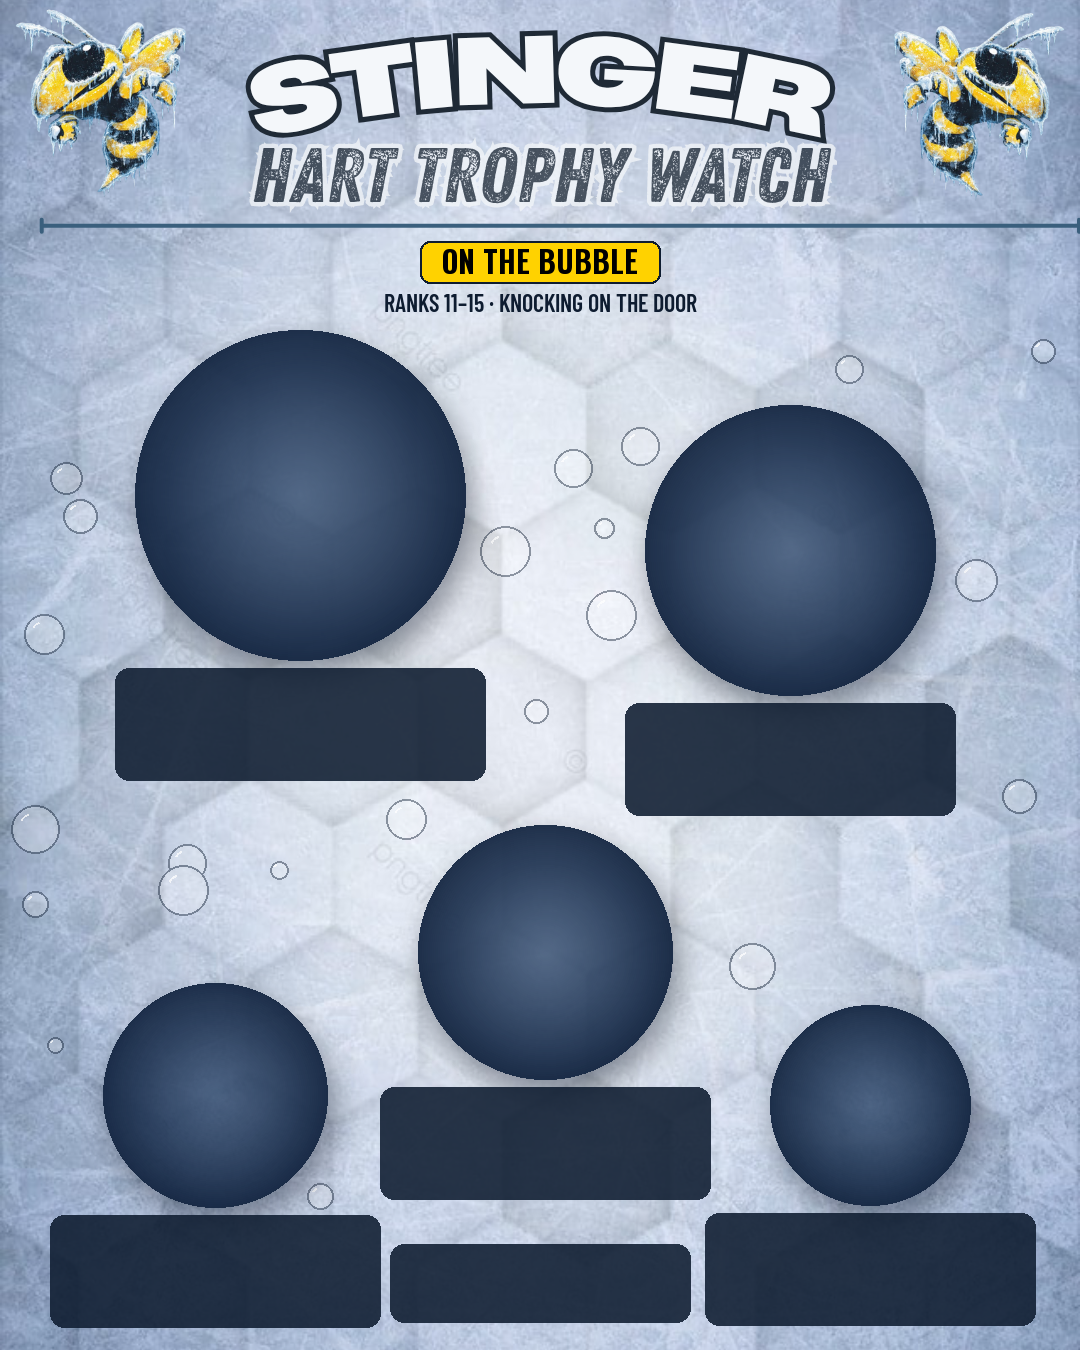
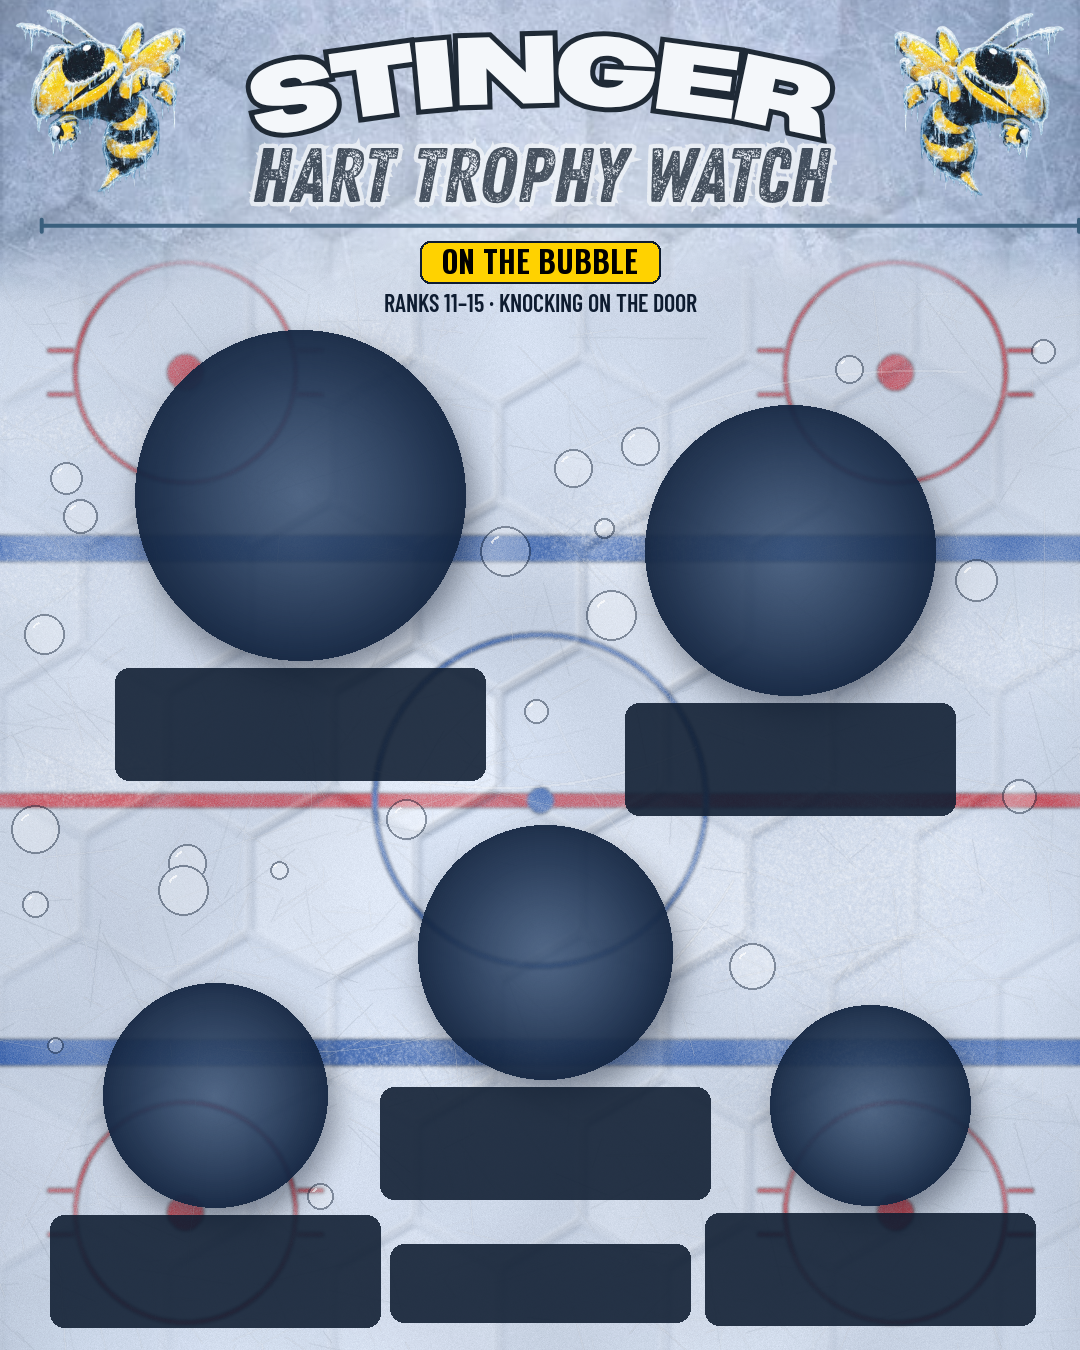
Original generated ice background with honeycomb and rink markings
publish/make_ice_bg.py builds Hart_Ice_bg.png: ice texture, skate scratches,
an embossed honeycomb, and red/blue lines plus face-off circles under the
surface. Only the header band is reused from Hart_Trophy_bg.png, whose body
carries stock-site watermarks. The bubble background is rebuilt on it.
CLAUDE.md: the new site reads board_hart_latest.csv; pages/ is the legacy
Squarespace feed.

diff --git a/publish/make_ice_bg.py b/publish/make_ice_bg.py
@@ -1,0 +1,193 @@
+"""Generate an original 1080×1350 ice background: scratched ice, an embossed honeycomb,
+and rink markings under the surface (red center line, blue lines, center face-off circle).
+
+The header band (STINGER wordmark, bee mascots, HART TROPHY WATCH, rule line) is taken
+from config.HEADER_SOURCE and feathered into the new ice below the rule. Deterministic
+for a given seed. After regenerating, rerun publish.make_bubble_bg (it builds on this image).
+
+Run:
+    python -m publish.make_ice_bg                       # → config.BOARD_BACKGROUND (Hart_Ice_bg.png)
+    python -m publish.make_ice_bg <out.png> [--seed 11] # elsewhere, e.g. to try a seed
+"""
+import argparse
+import math
+from pathlib import Path
+
+import numpy as np
+from PIL import Image, ImageDraw, ImageFilter
+
+W, H = 1080, 1350
+HEADER_CUT = 234          # header band kept from the source image (rule line sits at ~228)
+FEATHER = 70              # px blended below the cut
+
+# Matched to Hart_Trophy_bg.png: body ≈ (198, 209, 226), edges ≈ (156, 174, 200)
+ICE_BASE = np.array([204, 214, 230], dtype=float)
+RED = (196, 32, 44)
+BLUE = (26, 74, 162)
+
+# Rink layout (portrait: lines run across the width)
+CENTER_Y = 800            # red center line + center face-off circle
+BLUE_LINES_Y = (548, 1052)
+CIRCLE_R = 168
+
+
+def smooth_noise(rng, scale: int, amp: float) -> np.ndarray:
+    """Low-frequency cloudiness: coarse random grid upscaled and blurred."""
+    small = Image.fromarray((rng.random((H // scale + 2, W // scale + 2)) * 255).astype(np.uint8))
+    big = small.resize((W + 2 * scale, H + 2 * scale), Image.BICUBIC).filter(ImageFilter.GaussianBlur(scale / 2))
+    a = np.asarray(big, dtype=float)[scale:scale + H, scale:scale + W] / 255.0 - 0.5
+    return a * amp
+
+
+def ice_base(rng) -> Image.Image:
+    yy, xx = np.mgrid[0:H, 0:W]
+    # cool vignette: brighter centre, bluer edges
+    d = np.hypot((xx - W / 2) / (W * 0.62), (yy - H * 0.55) / (H * 0.72))
+    light = 12 * (1 - np.clip(d, 0, 1.3)) - 34 * np.clip(d - 0.75, 0, 1) ** 1.4
+    cloud = smooth_noise(rng, 120, 26) + smooth_noise(rng, 40, 12)
+    grain = rng.normal(0, 3.0, (H, W))
+    img = ICE_BASE[None, None, :] + (light + cloud + grain)[..., None]
+    img[..., 0] -= 8 * np.clip(d - 0.6, 0, 1)   # edges lean blue
+    img[..., 1] -= 4 * np.clip(d - 0.6, 0, 1)
+    return Image.fromarray(np.clip(img, 0, 255).astype(np.uint8), "RGB").convert("RGBA")
+
+
+def rink_markings() -> Image.Image:
+    """Paint under the ice: drawn crisp, then softened and faded by the caller."""
+    m = Image.new("RGBA", (W, H), (0, 0, 0, 0))
+    d = ImageDraw.Draw(m)
+    # blue lines (wider) and red center line
+    for y in BLUE_LINES_Y:
+        d.rectangle((0, y - 13, W, y + 13), fill=(*BLUE, 255))
+    d.rectangle((0, CENTER_Y - 7, W, CENTER_Y + 7), fill=(*RED, 255))
+    # center face-off circle, blue in the NHL; dot and hash marks
+    cx, cy, r = W // 2, CENTER_Y, CIRCLE_R
+    d.ellipse((cx - r, cy - r, cx + r, cy + r), outline=(*BLUE, 255), width=6)
+    d.ellipse((cx - 13, cy - 13, cx + 13, cy + 13), fill=(*BLUE, 255))
+    return m
+
+
+def faceoff_spot(d: ImageDraw.ImageDraw, cx: int, cy: int, r: int):
+    """End-zone style face-off circle: red ring, red dot, hash marks on both sides."""
+    d.ellipse((cx - r, cy - r, cx + r, cy + r), outline=(*RED, 255), width=5)
+    d.ellipse((cx - 18, cy - 18, cx + 18, cy + 18), fill=(*RED, 255))
+    for side in (-1, 1):
+        x = cx + side * r
+        for dy in (-22, 22):
+            d.line((x, cy + dy, x + side * 26, cy + dy), fill=(*RED, 255), width=5)
+
+
+def scratches(rng) -> Image.Image:
+    """Skate marks: many short hairlines plus a few long carved arcs; white and grey."""
+    s = Image.new("RGBA", (W, H), (0, 0, 0, 0))
+    d = ImageDraw.Draw(s)
+    for _ in range(1400):
+        x, y = rng.uniform(-50, W + 50), rng.uniform(0, H)
+        ang = rng.normal(rng.choice([0.35, -0.5, 1.2]), 0.35)
+        length = rng.gamma(2.0, 28)
+        x2, y2 = x + math.cos(ang) * length, y + math.sin(ang) * length
+        shade = (255, 255, 255, int(rng.uniform(25, 80))) if rng.random() < 0.7 else (150, 165, 185, int(rng.uniform(20, 55)))
+        d.line((x, y, x2, y2), fill=shade, width=1)
+    for _ in range(26):                      # long carved arcs (stops and turns)
+        cx, cy = rng.uniform(0, W), rng.uniform(HEADER_CUT, H + 200)
+        rr = rng.uniform(250, 900)
+        a0 = rng.uniform(0, 360); span = rng.uniform(12, 40)
+        d.arc((cx - rr, cy - rr, cx + rr, cy + rr), a0, a0 + span,
+              fill=(255, 255, 255, int(rng.uniform(40, 90))), width=int(rng.integers(1, 3)))
+    return s.filter(ImageFilter.GaussianBlur(0.4))
+
+
+def snow(rng) -> Image.Image:
+    """Snowy scuffs where skates stopped: blurred speckle patches."""
+    layer = np.zeros((H, W), dtype=float)
+    for _ in range(14):
+        cx, cy = rng.uniform(0, W), rng.uniform(HEADER_CUT, H)
+        rx, ry = rng.uniform(60, 180), rng.uniform(20, 60)
+        yy, xx = np.ogrid[0:H, 0:W]
+        blob = np.exp(-(((xx - cx) / rx) ** 2 + ((yy - cy) / ry) ** 2))
+        layer += blob * rng.uniform(0.4, 1.0)
+    speck = rng.random((H, W)) ** 6
+    alpha = np.clip(layer * speck * 420, 0, 140).astype(np.uint8)
+    img = Image.new("RGBA", (W, H), (255, 255, 255, 0))
+    img.putalpha(Image.fromarray(alpha).filter(ImageFilter.GaussianBlur(0.8)))
+    return img
+
+
+def honeycomb(rng, radius: int = 96) -> Image.Image:
+    """Embossed hexagons (pointy-top), lit from the top-left; stronger toward the centre."""
+    layer = Image.new("RGBA", (W, H), (0, 0, 0, 0))
+    d = ImageDraw.Draw(layer)
+    hw = math.sqrt(3) * radius          # cell width
+    vstep = 1.5 * radius
+    light = np.array([-0.6, -0.8])       # from upper left
+    rows = int(H / vstep) + 3
+    cols = int(W / hw) + 3
+    for row in range(-1, rows):
+        for col in range(-1, cols):
+            cx = col * hw + (hw / 2 if row % 2 else 0)
+            cy = row * vstep + 20
+            pts = [(cx + (radius - 5) * math.cos(math.radians(60 * k - 30)),
+                    cy + (radius - 5) * math.sin(math.radians(60 * k - 30))) for k in range(6)]
+            # cell face: slight random tone so the comb reads as tiles
+            tone = int(rng.uniform(-14, 14))
+            d.polygon(pts, fill=(255, 255, 255, 22 + tone) if tone > 0 else (120, 140, 170, 16 - tone))
+            # bevel: edges facing the light are bright, the others dark
+            for k in range(6):
+                (x1, y1), (x2, y2) = pts[k], pts[(k + 1) % 6]
+                nx, ny = (y2 - y1), -(x2 - x1)                # outward normal
+                n = math.hypot(nx, ny); nx, ny = nx / n, ny / n
+                f = -(nx * light[0] + ny * light[1])
+                col_ = (255, 255, 255, int(110 * f)) if f > 0 else (60, 80, 110, int(-90 * f))
+                d.line((x1, y1, x2, y2), fill=col_, width=5)
+    layer = layer.filter(ImageFilter.GaussianBlur(2.2))
+    # fade toward the edges and the bottom, like a spotlight on centre ice
+    yy, xx = np.mgrid[0:H, 0:W]
+    dist = np.hypot((xx - W / 2) / (W * 0.62), (yy - H * 0.55) / (H * 0.62))
+    fade = np.clip(1.15 - dist, 0.25, 1.0)
+    a = np.asarray(layer.getchannel("A"), dtype=float) * fade
+    layer.putalpha(Image.fromarray(a.astype(np.uint8)))
+    return layer
+
+
+def build(header_from: Path | None, seed: int) -> Image.Image:
+    rng = np.random.default_rng(seed)
+    img = ice_base(rng)
+
+    # markings under the ice: soft, faded, scuffed through by the scratches above them
+    marks = rink_markings()
+    d = ImageDraw.Draw(marks)
+    for cy in (372, H - 138):                 # end-zone circles beyond each blue line
+        faceoff_spot(d, 185, cy, 112)
+        faceoff_spot(d, W - 185, cy, 112)
+    marks = marks.filter(ImageFilter.GaussianBlur(1.6))
+    wear = np.clip(0.62 + smooth_noise(rng, 30, 0.5) + rng.normal(0, 0.05, (H, W)), 0.3, 0.8)
+    marks.putalpha(Image.fromarray((np.asarray(marks.getchannel("A"), dtype=float) * wear).astype(np.uint8)))
+    img = Image.alpha_composite(img, marks)
+
+    img = Image.alpha_composite(img, honeycomb(rng))
+    img = Image.alpha_composite(img, snow(rng))
+    img = Image.alpha_composite(img, scratches(rng))
+
+    if header_from and header_from.exists():
+        src = Image.open(header_from).convert("RGBA").resize((W, H))
+        mask = np.zeros((H, W), dtype=float)
+        mask[:HEADER_CUT] = 1.0
+        ramp = np.linspace(1, 0, FEATHER)
+        mask[HEADER_CUT:HEADER_CUT + FEATHER] = ramp[:, None]
+        img = Image.composite(src, img, Image.fromarray((mask * 255).astype(np.uint8)))
+    return img.convert("RGB")
+
+
+def main() -> None:
+    from config import BOARD_BACKGROUND, HEADER_SOURCE
+    p = argparse.ArgumentParser()
+    p.add_argument("out", type=Path, nargs="?", default=BOARD_BACKGROUND)
+    p.add_argument("--header-from", type=Path, default=HEADER_SOURCE)
+    p.add_argument("--seed", type=int, default=11)
+    a = p.parse_args()
+    build(a.header_from, a.seed).save(a.out)
+    print("ok ->", a.out)
+
+
+if __name__ == "__main__":
+    main()

diff --git a/publish/render_graphics.py b/publish/render_graphics.py
@@ -1,10 +1,10 @@
 """
 Render the weekly Hart Trophy board graphic (1080×1350) by compositing headshots,
-team logos, chips and stat blocks onto Hart_Trophy_bg.png, plus the "On the Bubble"
-slide for ranks 11–15.
+team logos, chips and stat blocks onto Hart_Ice_bg.png (publish/make_ice_bg.py), plus
+the "On the Bubble" slide for ranks 11–15.
 
 Port of nfl-awards-predictor/src/publish/render_graphics.py: same fonts, card anatomy
-and percentile-based select_top_stats. Hart_Trophy_bg.png is light ice, not dark turf,
+and percentile-based select_top_stats. The background is light ice, not dark turf,
 so everything that isn't on a card or row plate gets its own dark plate.
 
 Assets come from stinger-assets (STINGER_ASSETS_DIR):
@@ -430,7 +430,7 @@ def draw_footer(canvas: Image.Image, row_top: int, row_left: int, through: date)
 
 
 def placeholder_background() -> Image.Image:
-    """Plain dark board with a header band — used if Hart_Trophy_bg.png is missing."""
+    """Plain dark board with a header band — used if the board background is missing."""
     bg = Image.new("RGBA", (IMG_W, IMG_H), (12, 14, 20, 255))
     d = ImageDraw.Draw(bg)
     for y in range(IMG_H):                      # subtle vertical gradient

diff --git a/config.py b/config.py
@@ -56,9 +56,11 @@ CANDIDATES_CSV   = PREDICTIONS / "nhl_candidates.csv"   # pulled by stinger-asse
 PAGES_DIR        = ROOT_DIR / "pages"                     # legacy Google Sheet feed
 FONTS_DIR        = ROOT_DIR / "assets" / "fonts"
 
-# 1080×1350 backgrounds. The bubble background, overlay and slot geometry come
-# from publish/make_bubble_bg.py.
-BOARD_BACKGROUND  = ROOT_DIR / "Hart_Trophy_bg.png"
+# 1080×1350 backgrounds. BOARD_BACKGROUND is generated by publish/make_ice_bg.py
+# (original ice + honeycomb + rink markings; header band from HEADER_SOURCE). The bubble
+# background, overlay and slot geometry come from publish/make_bubble_bg.py.
+HEADER_SOURCE     = ROOT_DIR / "Hart_Trophy_bg.png"   # STINGER wordmark, bees, title, rule line
+BOARD_BACKGROUND  = ROOT_DIR / "Hart_Ice_bg.png"
 BUBBLE_BACKGROUND = ROOT_DIR / "Hart_Bubble_bg.png"
 BUBBLE_OVERLAY    = ROOT_DIR / "Hart_Bubble_overlay.png"
 BUBBLE_SLOTS      = ROOT_DIR / "assets" / "bubble_slots.json"

diff --git a/publish/make_bubble_bg.py b/publish/make_bubble_bg.py
@@ -1,4 +1,5 @@
-"""Build the Hart 'On the Bubble' background for ranks 11-15 from Hart_Trophy_bg.png.
+"""Build the Hart 'On the Bubble' background for ranks 11-15 from the board background
+(config.BOARD_BACKGROUND, Hart_Ice_bg.png).
 
 Port of nfl-awards-predictor/src/publish/make_bubble_bg.py, restyled for the light
 ice board: navy wells and plates instead of dark turf, gold rings, ice-blue micro-bubbles.

diff --git a/CLAUDE.md b/CLAUDE.md
@@ -29,6 +29,7 @@ python Models/nhl_predict_current.py --outdir <scratch> --no-publish   # board C
 python -m publish.render_graphics
 python -m publish.generate_chips
 python -m publish.generate_captions
+python -m publish.make_ice_bg                        # regenerate Hart_Ice_bg.png (then make_bubble_bg)
 python -m publish.make_bubble_bg [--preview <png>]   # regenerate bubble background/overlay/slots
 ```
 
@@ -80,7 +81,7 @@ nhl_predict_current.py  →  Data/Processed/nhl_hart_predictions_v2_{season}.csv
 - **Guards**: nothing is written if fewer than 15 players are eligible (the bubble slide needs ranks 11–15). If the chips fail or the key is missing on a same-week rerun, this week's saved `chip_data_latest.csv` is reused instead of blanking the Whys.
 - `predictions/nhl_candidates.csv` (`sport, player_name, team, player_key`): everyone on the 30-deep board, so headshots exist before a player reaches the graphic.
 - **Chips** (`generate_chips.py`, `claude-haiku-5-5`, effort `low`): Chip + Why for the top 3; a Why of at most 75 characters (enforced in code) for ranks 11–15. Each bubble player is compared with the lowest-ranked top-10 player in the same role (forward C/LW/RW/F/W, defenseman, goalie), falling back to #10. The top-3 prompt sees one player's stats only, so it forbids "leads"/"ranks first" claims: the first live run said MacKinnon and Bouchard "lead" while McDavid was #1 with 36 points.
-- **Graphics** (`render_graphics.py`): the main board on `Hart_Trophy_bg.png` (light ice, so every text block sits on a navy plate). If a top-3 headshot is missing, a large team logo takes its place. The "On the Bubble" slide uses `Hart_Bubble_bg.png` + `Hart_Bubble_overlay.png` + `assets/bubble_slots.json`, all generated by `make_bubble_bg.py`. Fonts are OFL copies in `assets/fonts/`. `graphics/caption_hart.txt` covers the two-slide carousel.
+- **Graphics** (`render_graphics.py`): the main board on `Hart_Ice_bg.png` (light ice, so every text block sits on a navy plate). `make_ice_bg.py` generates it (deterministic, seed 11): original ice, scratches, an embossed honeycomb, and rink markings under the surface (red center line, blue lines, center and end-zone face-off circles). Only the header band (wordmark, bees, title, rule) comes from `Hart_Trophy_bg.png` (`HEADER_SOURCE`), feathered in below the rule. That image's body has stock-site watermarks, which is why it is no longer used as the background. After regenerating the ice, rerun `make_bubble_bg.py`, which builds on it. If a top-3 headshot is missing, a large team logo takes its place. The "On the Bubble" slide uses `Hart_Bubble_bg.png` + `Hart_Bubble_overlay.png` + `assets/bubble_slots.json`, all generated by `make_bubble_bg.py`. Fonts are OFL copies in `assets/fonts/`. `graphics/caption_hart.txt` covers the two-slide carousel.
 
 ## stinger-assets contract
 
@@ -88,7 +89,9 @@ Headshots: `nhl/headshots/{player_key}.png` (600×436). Logos: `nhl/logos/{team}
 
 ## Output contract (website)
 
-stinger-website's NHL page reads a Google Sheet whose tabs IMPORTDATA the files in `pages/` (the workflow copies them there from `Data/Processed/`). `nhl_hart_predictions_v2_latest.csv` must keep exactly `PAGES_COLUMNS` (in `nhl_predict_current.py`); the Sheet derives `mvp_prob` from `Hart_Win_Prob` and `week_label` from `model_run_label`. `top5.csv` / `top6to10.csv` are wide one-row-per-run CSVs (`r1_player`, `r1_team`, …). Keep these working until the website switches to `predictions/{season}/board_hart_latest.csv`.
+The new stinger-website (Cloudflare) reads `predictions/{season}/board_hart_latest.csv` straight from GitHub (`site/src/_data/awards.json`, `csv` for the NHL entry). Its columns use these board fields by name: `team, position, games, goals, assists, points, ppg, plus_minus, team_record` (team record shown as written), `goalie_wins, save_pct, gaa` for goalie bubble rows, and `rank_delta`/`movement`, `chips`, `why_blurb`. Renaming any of them breaks the page.
+
+`pages/` is the legacy feed for the old Squarespace site, which reads a Google Sheet whose tabs IMPORTDATA those files. Keep it working until that site is retired. `nhl_hart_predictions_v2_latest.csv` must keep exactly `PAGES_COLUMNS` (in `nhl_predict_current.py`); the Sheet derives `mvp_prob` from `Hart_Win_Prob` and `week_label` from `model_run_label`. `top5.csv` / `top6to10.csv` are wide one-row-per-run CSVs (`r1_player`, `r1_team`, …).
 
 ## Data Sources & Scraping
 
